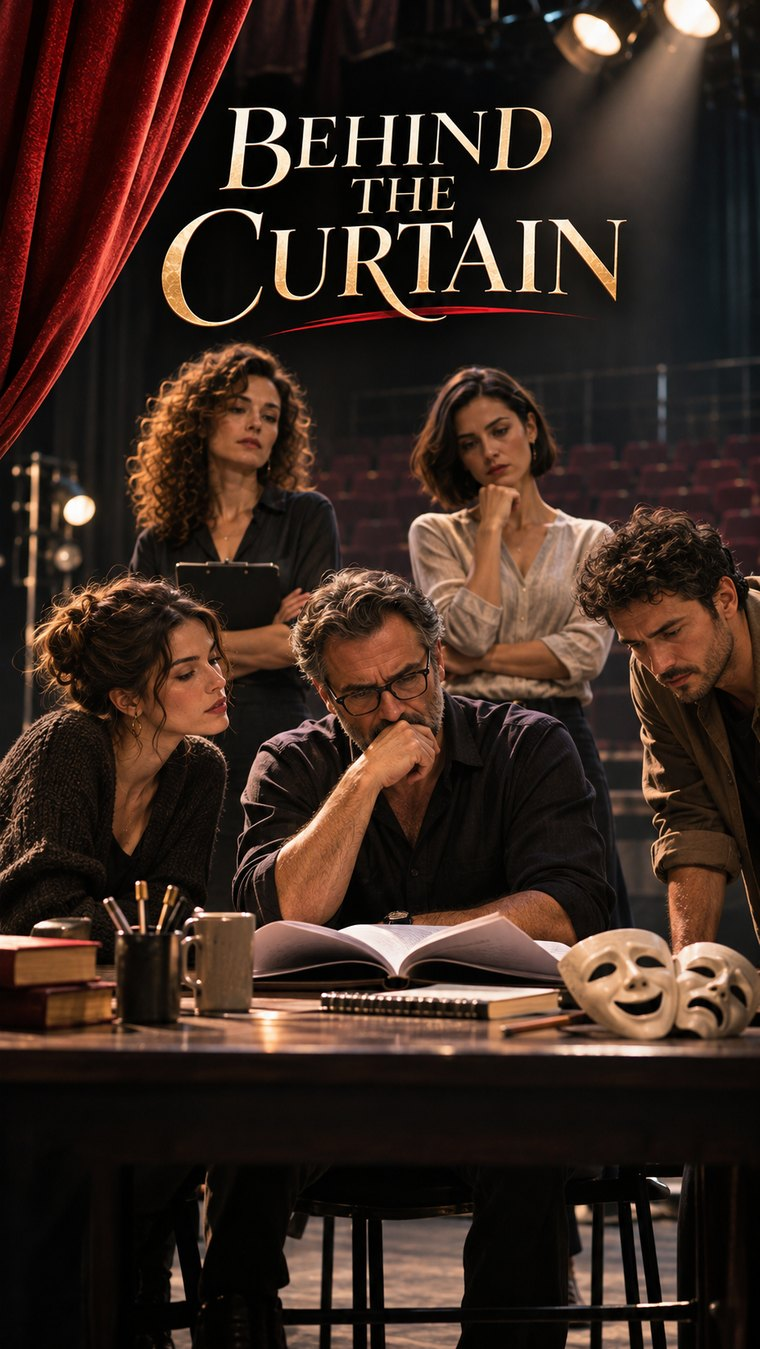
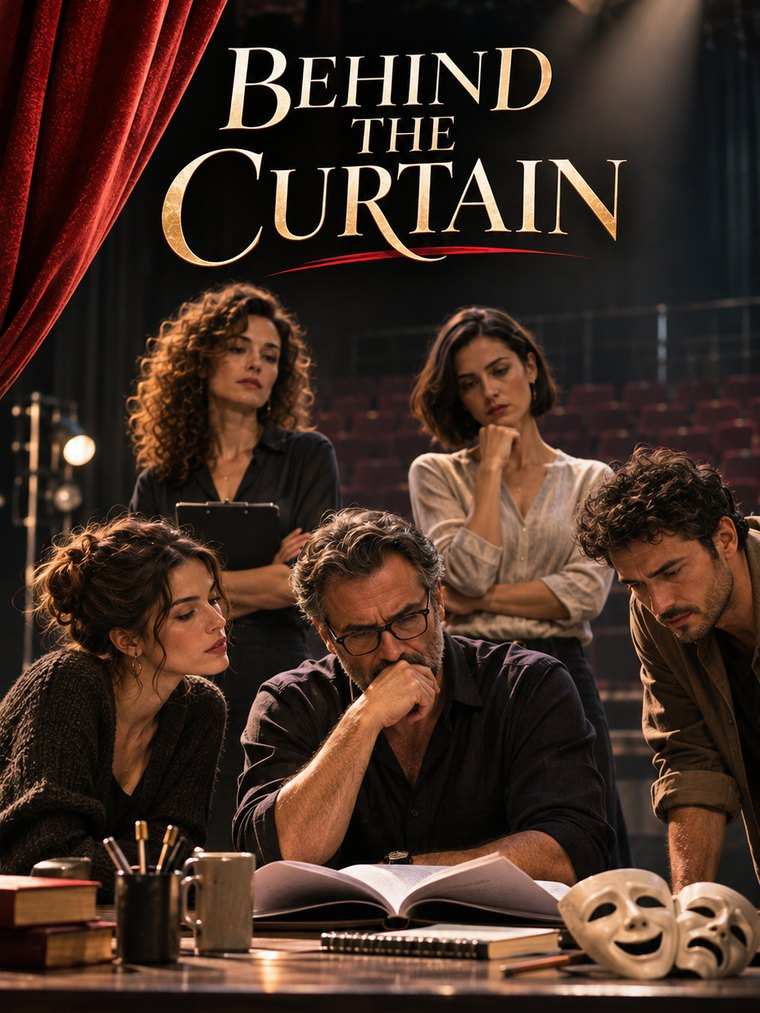
Behind the Curtain afişi 3:4 kırpıldı
Claude-Session: https://claude.ai/code/session_01Aif8QA5WuPFRVLfvmg3vKs

diff --git a/index.html b/index.html
@@ -644,7 +644,7 @@ requestAnimationFrame(tick);
 <div class="md-t"><p class="md-tr">Derin Sularda</p><h3>In Deep Waters</h3><p>Teknede yaz tatili yapan altı arkadaş ve aralarındaki entrika.</p></div>
 </article>
 <article class="md-a">
-<img loading="lazy" src="img/md-behind-the-curtain.jpg" alt="Behind the Curtain dizi afişi" style="--r:0.563">
+<img loading="lazy" src="img/md-behind-the-curtain.jpg" alt="Behind the Curtain dizi afişi" style="--r:0.75">
 <div class="md-t"><p class="md-tr">Perdenin Arkasında</p><h3>Behind the Curtain</h3><p>Bir tiyatro oyununun provalarında beş kişilik ekip: entrika, aşk ve gizem.</p></div>
 </article>
 <article class="md-a">
